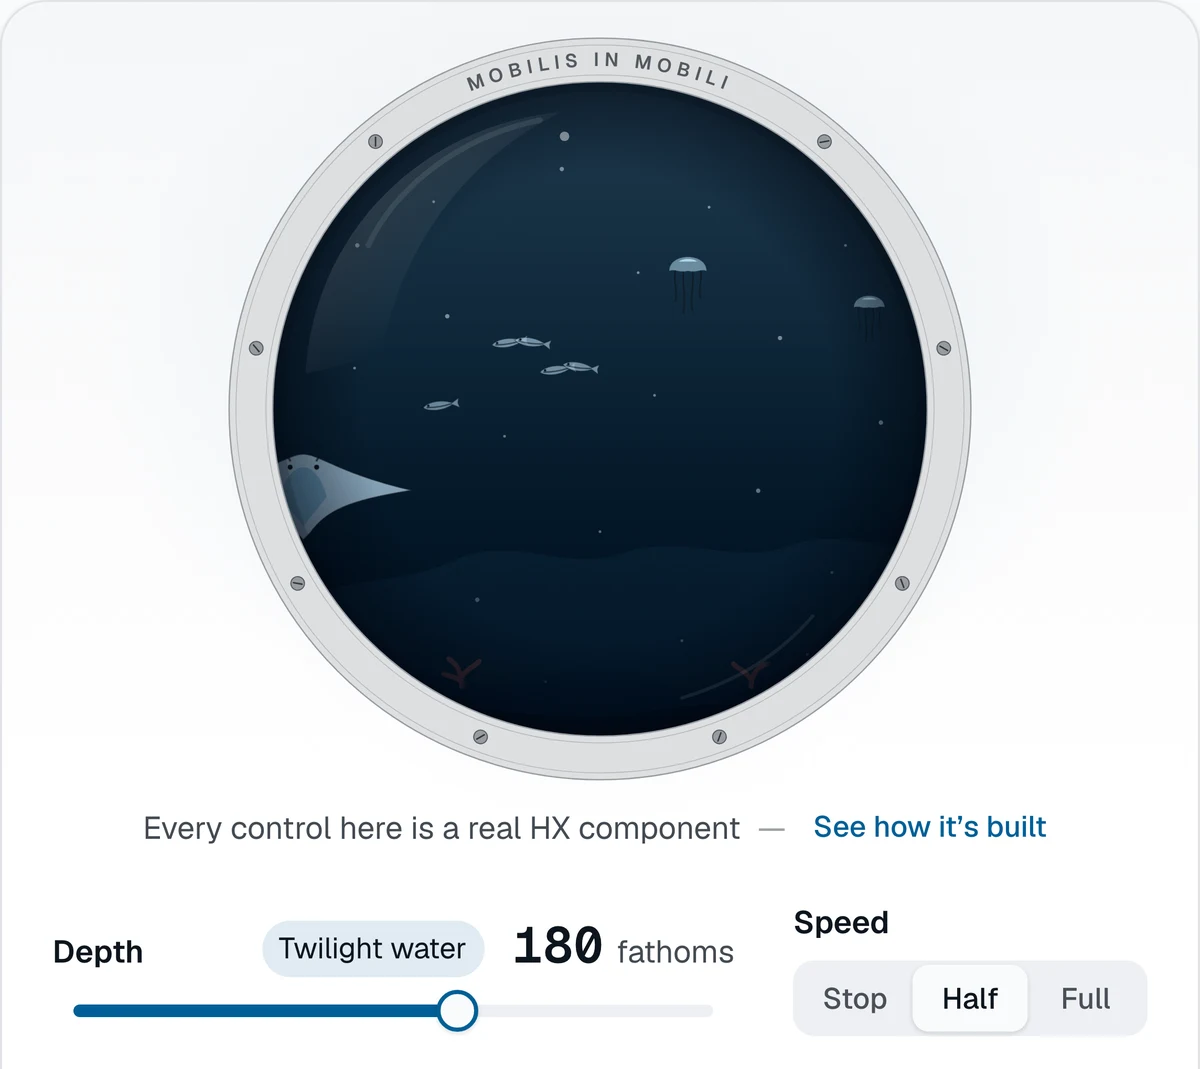
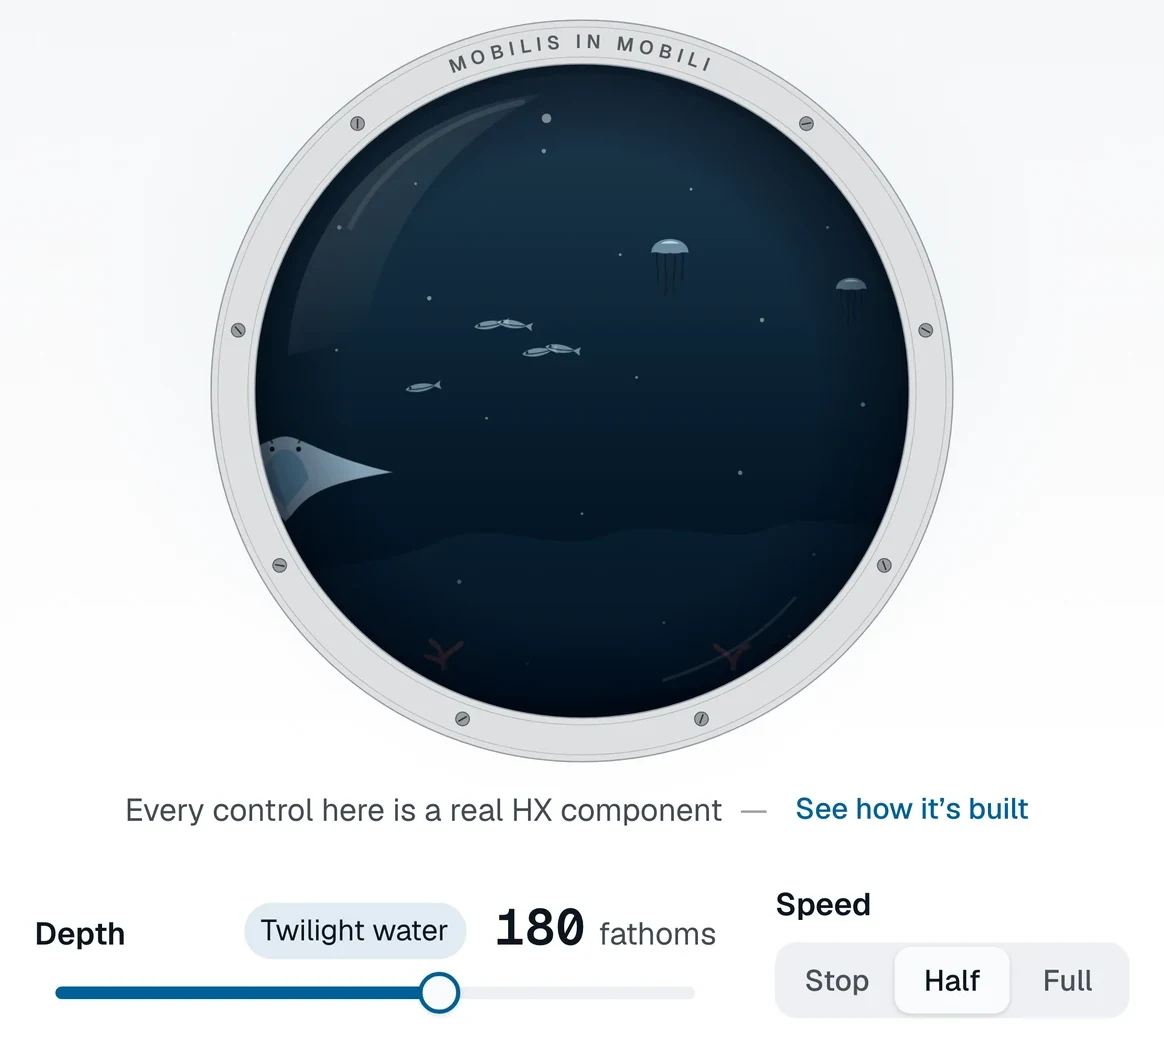
Corners and hover rings: one curve per frame
The linked-card hover ring now lives on the rounded frame instead of a square inner box, so it follows the corners instead of being clipped. Keyboard focus no longer forces a 2px radius, which squared off rounded buttons and cards. The Ouro HX image no longer carries the showcase card's own rounded edge, which drew a second, larger curve inside the frame.

diff --git a/src/styles/global.css b/src/styles/global.css
@@ -329,10 +329,10 @@ h1, h2, h3, h4, h5, h6, .font-display { text-wrap: pretty; }
 p, li, dd, figcaption { text-wrap: pretty; }
 
 /* ── Focus ── */
+/* The outline follows each element's own corners; never set a radius here, or rounded buttons and cards go square when focused. */
 :focus-visible {
   outline: 2px solid var(--color-scale);
   outline-offset: 2px;
-  border-radius: 2px;
 }
 :focus:not(:focus-visible) { outline: none; }
 
